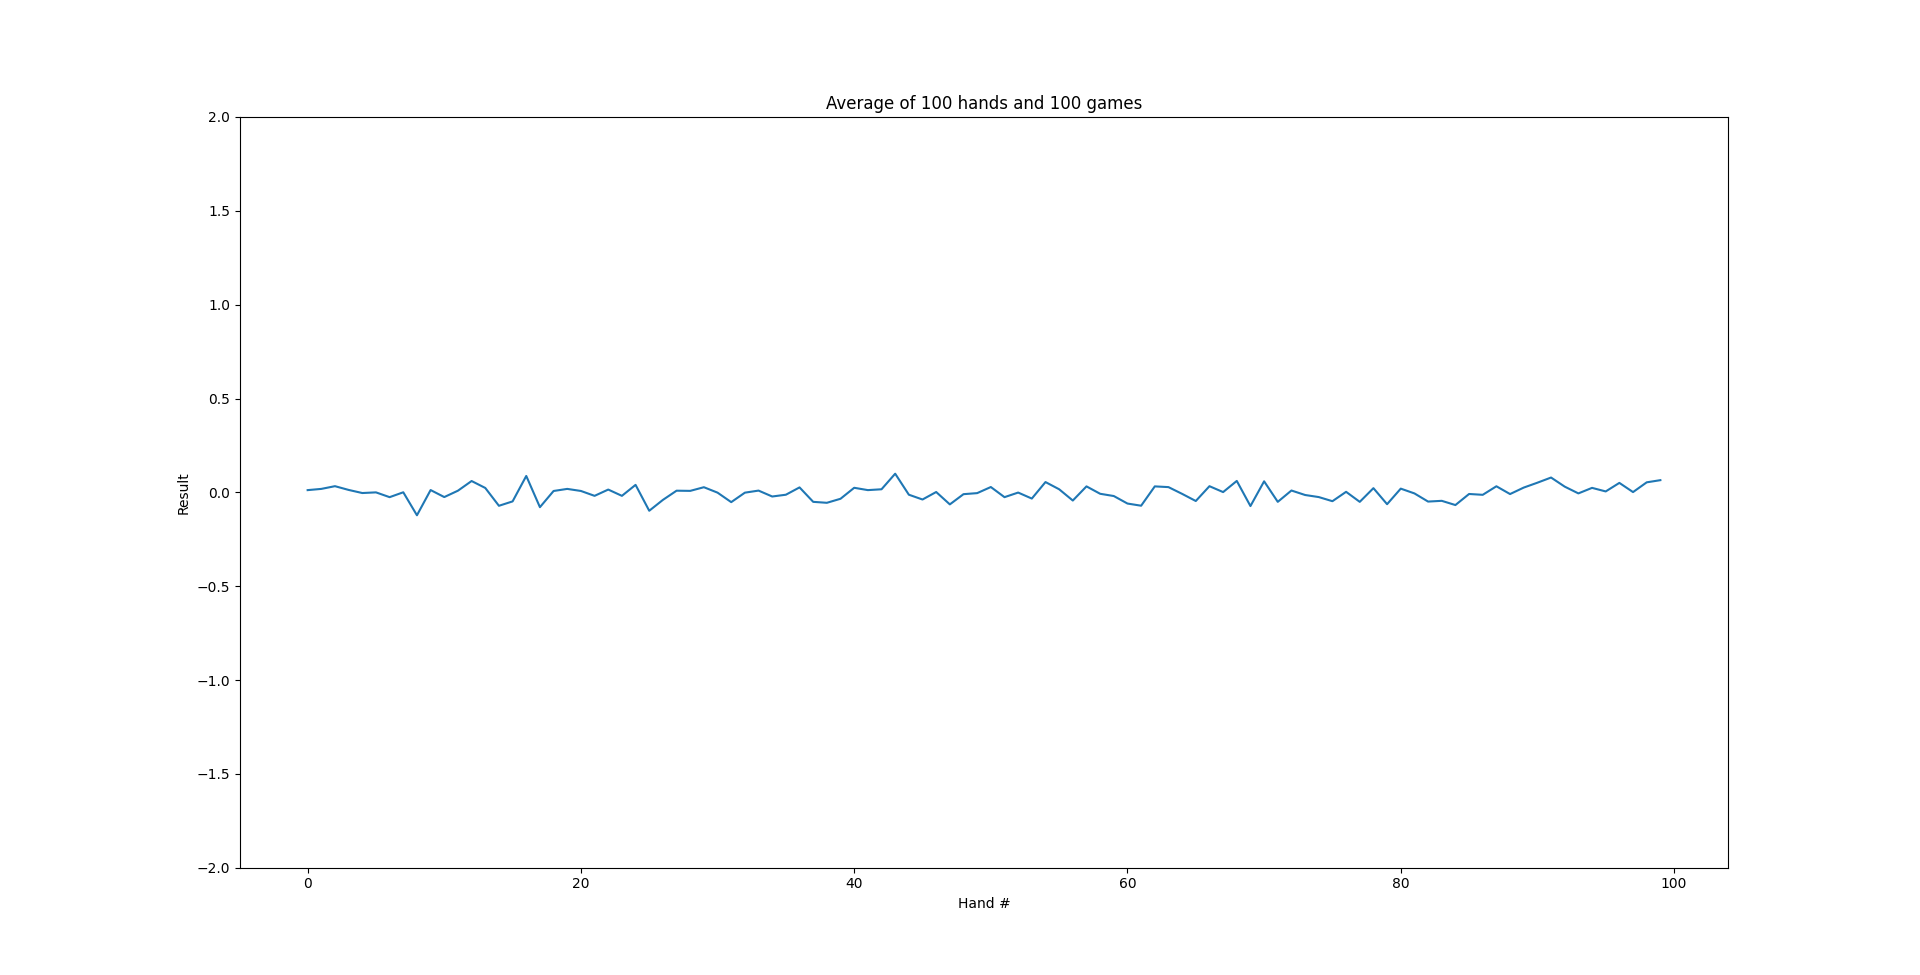
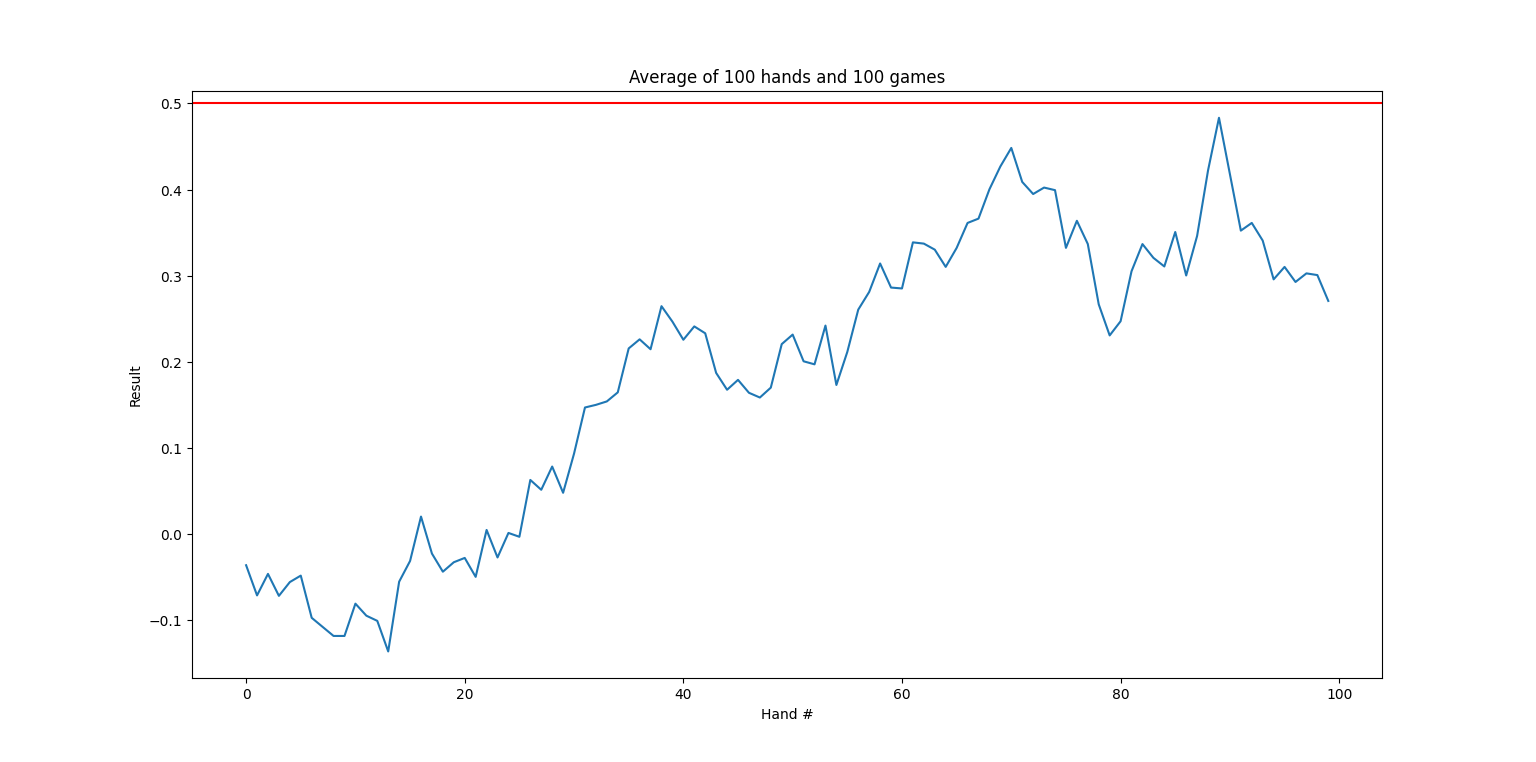
Fixed graph calculation, using pot now

diff --git a/main.py b/main.py
@@ -545,11 +545,11 @@ def averageRows(rows):
         averageR /= len(rows)
         avgRow.append(averageR)
         y.append(j)
-    plt.ylim(-2, 2)
     plt.plot(y, avgRow, label = "Average Line")
     plt.xlabel("Hand #")
     plt.ylabel("Result")
     plt.title("Average of 100 hands and 100 games")
+    plt.axhline(y = 0.5, color = 'r', linestyle = '-') 
     plt.show()
 
 
@@ -610,14 +610,16 @@ def main_never_bust():
 
 def basic_strategy_main():
     rows = []
-    deck = shuffleDeck(createDeck())
     # results = []
     results = 0
     wins = 0
     num = int(input("How many hands: "))
     for k in range(1000):
+        pot = 0
         row = []
         y = []
+        deck = shuffleDeck(createDeck())
+
         for i in range(num):
             print(f"Hand number: {i}")
             if len(deck) <= 12:
@@ -630,8 +632,10 @@ def basic_strategy_main():
                 dealerHand.append(deck.pop())
             print(f"CARDS LEFT: {len(deck)}")
             result = bs_blackjack(playerHand, dealerHand, deck)
-            results += result
-            row.append(result)
+
+            pot += result
+            row.append(pot)
+
             if result > 0:
                 wins += 1
             y.append(i)
@@ -656,6 +660,7 @@ def basic_strategy_main():
     plt.xlabel("Hand #")
     plt.ylabel("Result")
     plt.title("1000 Games of 100 hands")
+    plt.axhline(y = 0.5, color = 'r', linestyle = '-') 
     plt.show()
     averageRows(rows)
 
